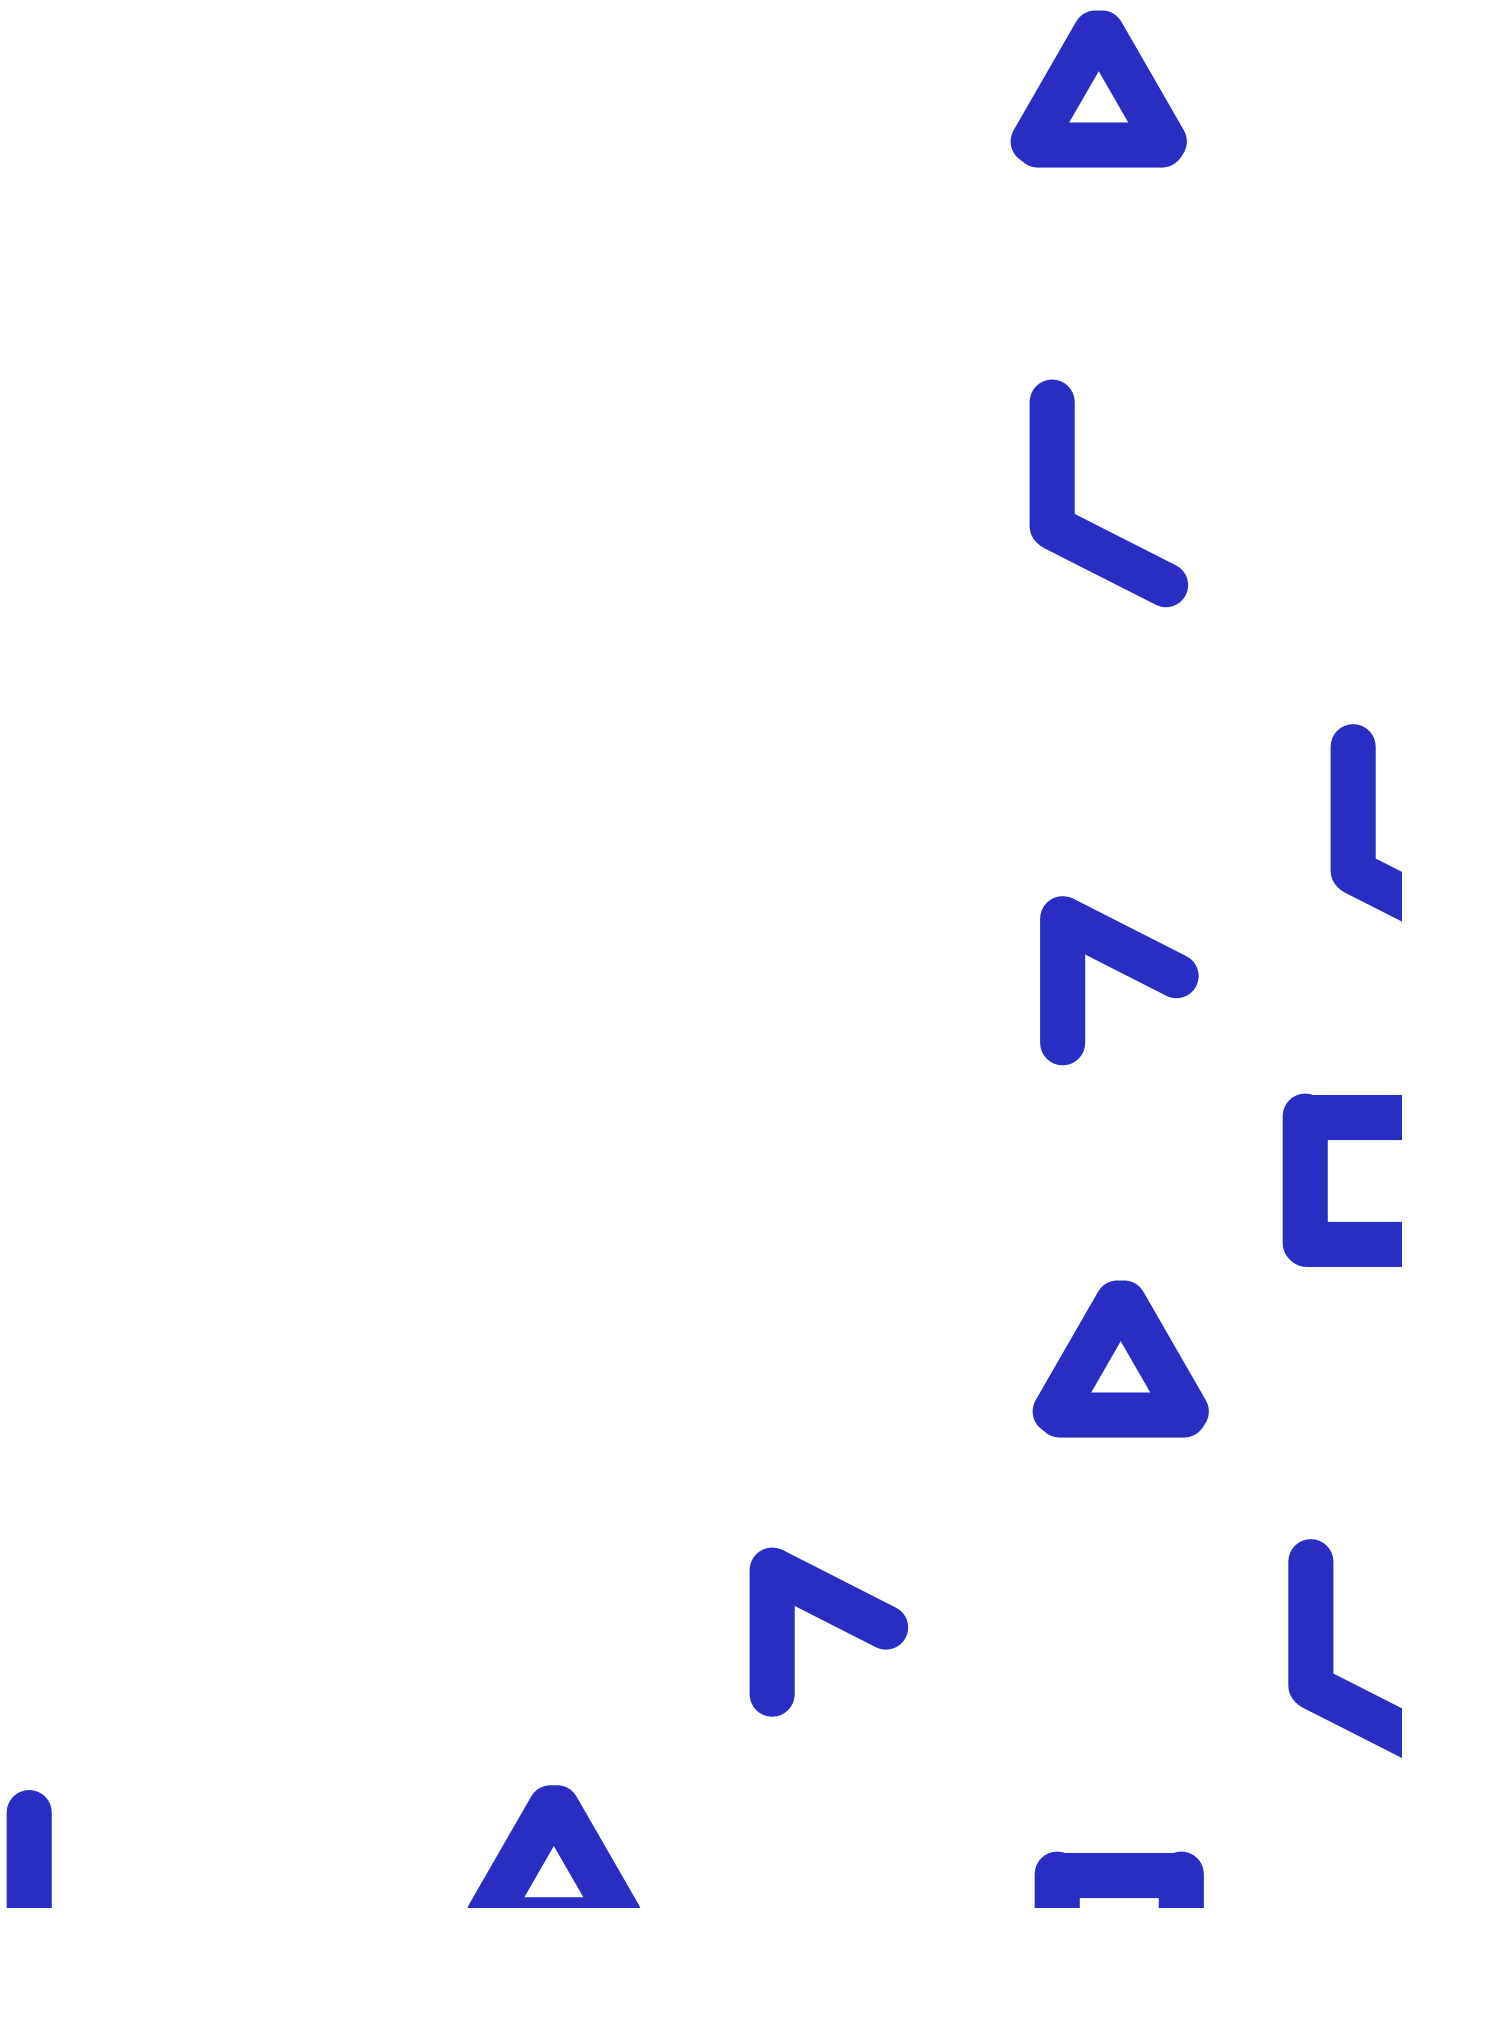
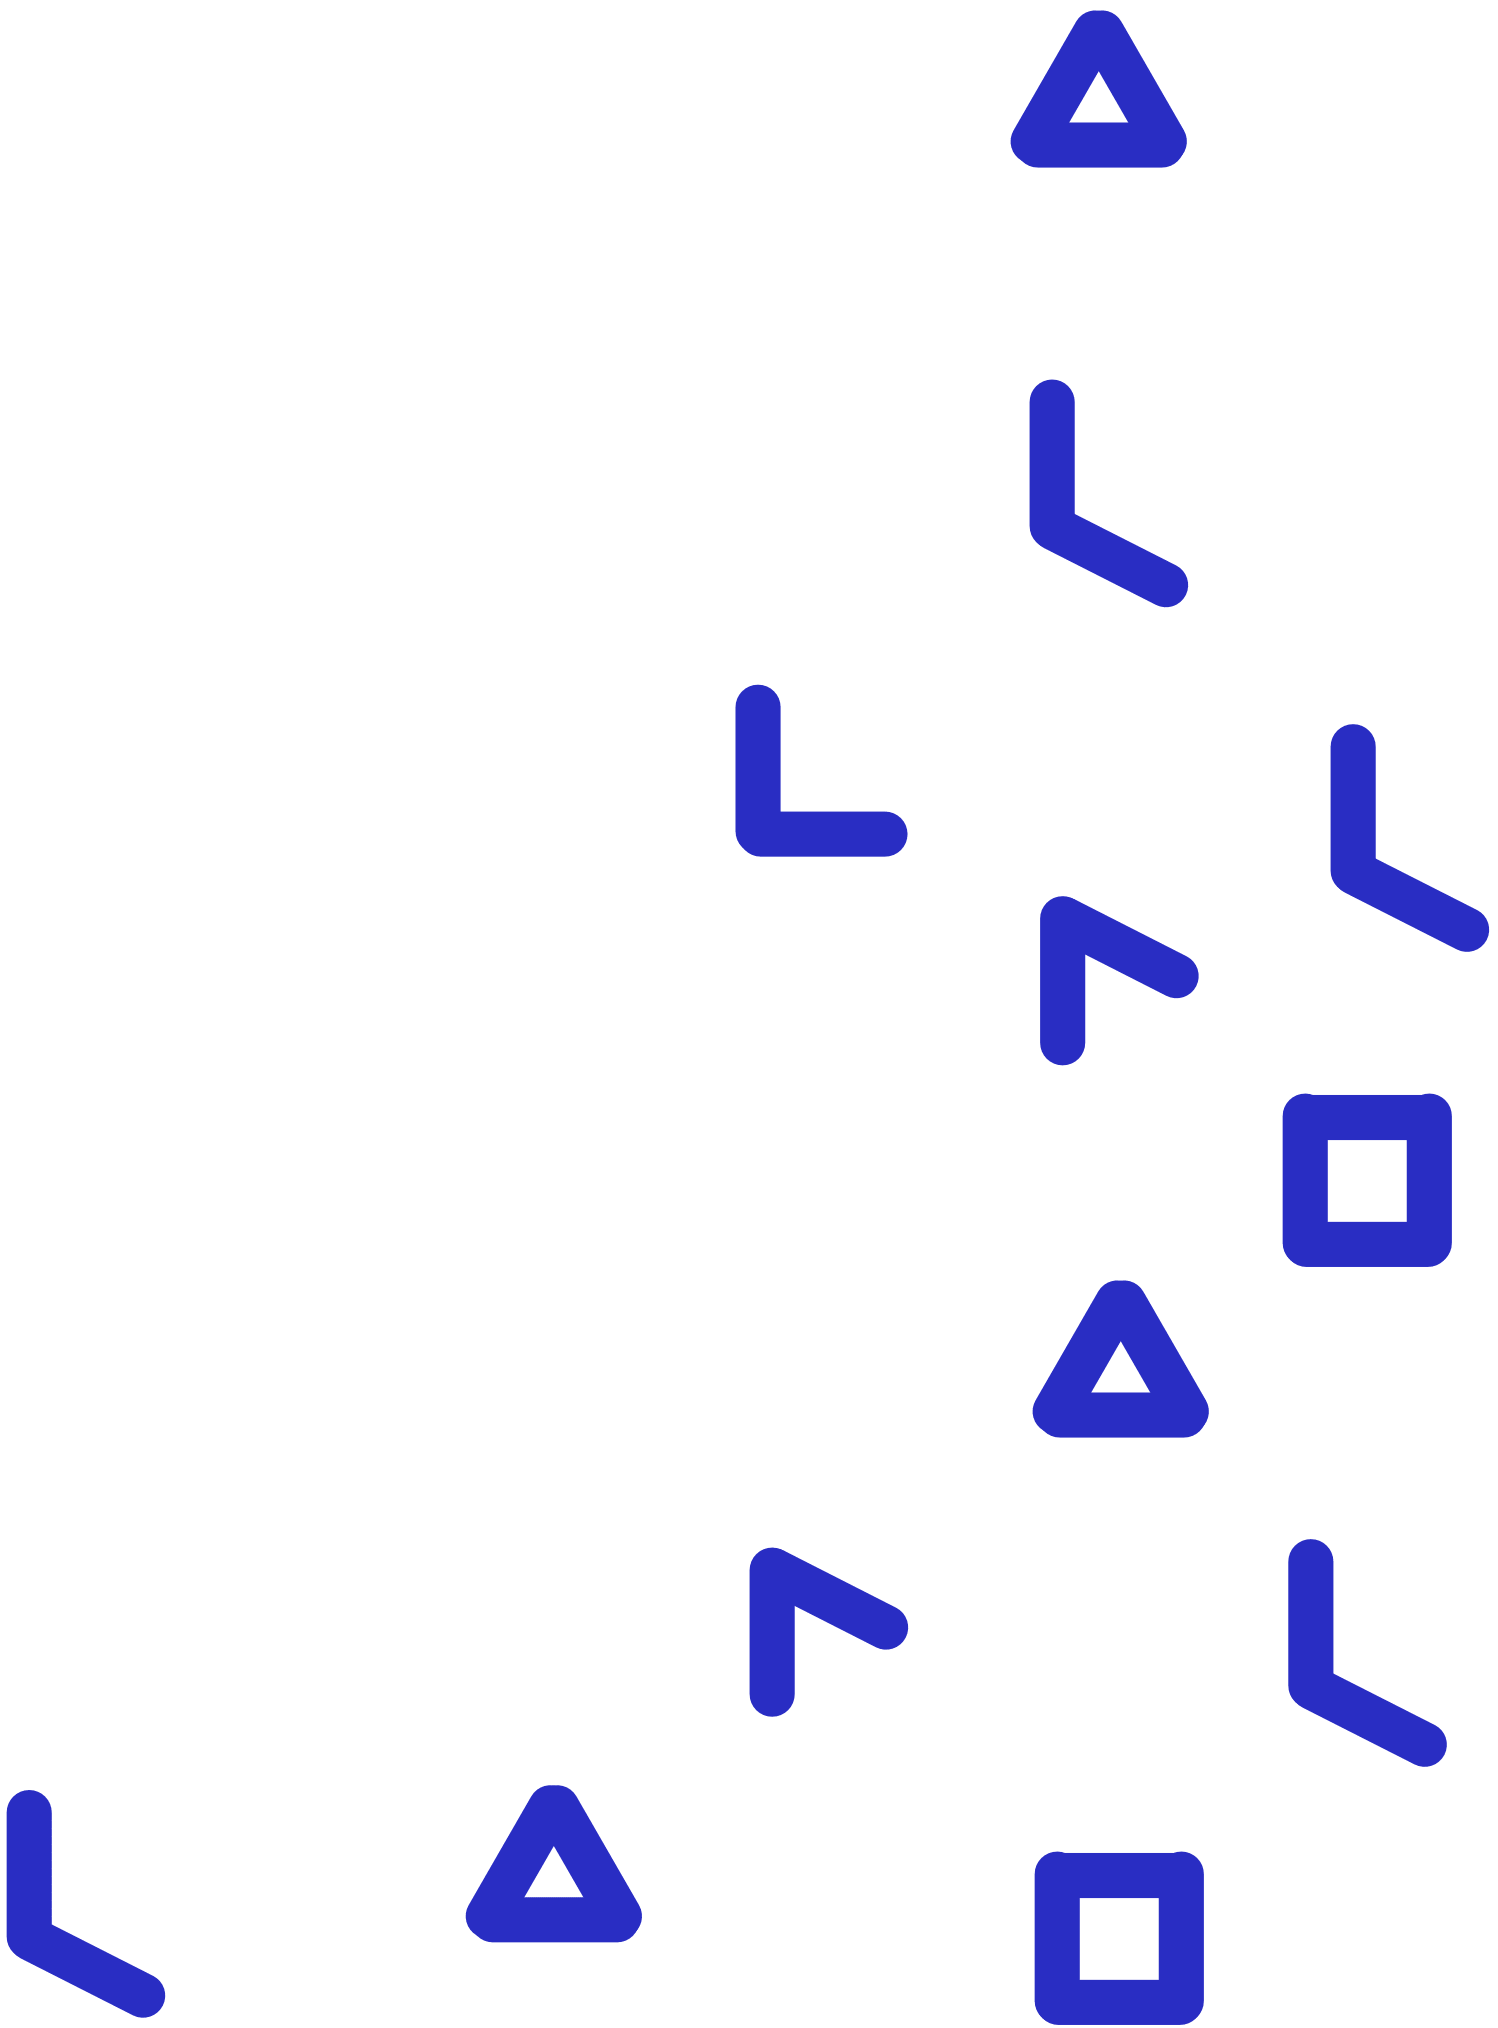
graphics and bug fixes

diff --git a/src/organisms/homepage-hero/HomepageHero.tsx b/src/organisms/homepage-hero/HomepageHero.tsx
@@ -1,5 +1,4 @@
-import { Box, Heading } from "grommet";
-import dynamic from "next/dynamic";
+import { Box, Heading, Image } from "grommet";
 import { Link, RichText, RichTextBlock } from "prismic-reactjs";
 import React from "react";
 import styled from "styled-components";
@@ -11,15 +10,8 @@ import {
   MobileTabletOnly,
 } from "../../atoms/responsive-helpers/ResponsiveHelpers";
 import Section from "../../layout/section/Section";
-import { patternPositions } from "../../motif/pattern-positions/patternPositions";
 import { colorPalette } from "../../theme/pila";
 import ResponsiveGrid from "../responsive-grid/ResponsiveGrid";
-
-// eslint-disable-next-line @typescript-eslint/ban-ts-comment
-// @ts-ignore
-const Pattern = dynamic(() =>
-  import("../../motif/Motif").then((mod) => mod.Pattern)
-);
 
 export interface HomepageHeroProps {
   title: RichTextBlock[];
@@ -46,15 +38,12 @@ const HeroContents: React.FC<HeroContentsProps> = ({
   image,
   isMobileDevice = false,
 }) => {
-  const motifWrapperRef = React.useRef<HTMLDivElement>(null);
-
   return (
     <StyledBox
       background={colorPalette.blue}
       justify={"center"}
       overflow={"hidden"}
       height={isMobileDevice ? "100vh" : "95vh"}
-      ref={motifWrapperRef}
       style={{ overflow: "hidden", position: "relative" }}
     >
       <StyledSection justify={isMobileDevice ? "start" : "center"}>
@@ -88,22 +77,14 @@ const HeroContents: React.FC<HeroContentsProps> = ({
             )}
           </Box>
           <ImageContainer width={{ max: "600px" }}>
-            <DesktopUp>
-              {patternPositions.map(({ position, variant, color }, index) => (
-                <StyledPattern
-                  key={index}
-                  color={color}
-                  positionString={position}
-                  variant={variant}
-                />
-              ))}
-            </DesktopUp>
+            <BluePattern src={"/pattern/blue-pattern.png"} />
             <ImageBox
               elevation={"xxxlarge"}
               background={`url(${image?.url})`}
               style={{ right: isMobileDevice ? "-24vw" : "0" }}
               margin={{ top: isMobileDevice ? "large" : "none" }}
             />
+            <GreenPattern src={"/pattern/green-pattern.png"} />
           </ImageContainer>
         </ResponsiveGrid>
       </StyledSection>
@@ -144,9 +125,30 @@ const ImageContainer = styled(Box)`
   position: relative;
 `;
 
-const StyledPattern = styled(Pattern)<{ positionString: string }>`
+const BluePattern = styled(Image)`
   position: absolute;
-  ${(props) => props.positionString}
+  height: 1014px;
+  width: 749px;
+  left: 0;
+
+  @media (min-width: 901px) {
+    bottom: -235px;
+    left: 62px;
+  }
+`;
+
+const GreenPattern = styled(Image)`
+  display: none;
+  position: absolute;
+  right: -222px;
+  bottom: -60px;
+  height: 501px;
+  width: 406px;
+  z-index: 1;
+
+  @media (min-width: 901px) {
+    display: block;
+  }
 `;
 
 export default HomepageHero;

diff --git a/slices/HighlightBanner/index.tsx b/slices/HighlightBanner/index.tsx
@@ -3,10 +3,10 @@ import {
   CardBody,
   CardHeader,
   Heading,
+  Image,
   Paragraph,
   ResponsiveContext,
 } from "grommet";
-import dynamic from "next/dynamic";
 import { Link, RichText, RichTextBlock } from "prismic-reactjs";
 import React, { FC } from "react";
 import styled from "styled-components";
@@ -16,8 +16,6 @@ import Section from "../../src/layout/section/Section";
 import ResponsiveGrid from "../../src/organisms/responsive-grid/ResponsiveGrid";
 import { colorPalette } from "../../src/theme/pila";
 import Slice from "../../types/Slice";
-
-const Motif = dynamic(() => import("../../src/motif/Motif"));
 
 type Primary = {
   title: RichTextBlock[];
@@ -42,7 +40,6 @@ const HighlightBanner: FC<{ slice: HighlightBannerProps }> = ({ slice }) => {
     },
   } = slice;
   const size = React.useContext(ResponsiveContext);
-  const motifWrapperRef = React.useRef<HTMLDivElement>(null);
 
   return (
     <Section justify={"center"} flex>
@@ -55,9 +52,8 @@ const HighlightBanner: FC<{ slice: HighlightBannerProps }> = ({ slice }) => {
           justify={"center"}
           margin={{ top: "xlarge", bottom: "xlarge" }}
           style={{ position: "relative" }}
-          ref={motifWrapperRef}
         >
-          <Motif containerRef={motifWrapperRef} color={"#58C6AA"} />
+          <HighlightPattern src={"/pattern/highlight-pattern.png"} />
           <CardHeader
             direction={"column"}
             style={{ position: "relative", zIndex: 1 }}
@@ -124,6 +120,17 @@ const HighlightBanner: FC<{ slice: HighlightBannerProps }> = ({ slice }) => {
 const StyledCard = styled(Card)`
   border-radius: 25px;
   min-height: 380px;
+`;
+
+const HighlightPattern = styled(Image)`
+  width: auto;
+  height: 100%;
+  position: absolute;
+
+  @media (min-width: 1250px) {
+    height: auto;
+    width: 100%;
+  }
 `;
 
 export default HighlightBanner;

diff --git a/slices/ImageWithTextSection/index.tsx b/slices/ImageWithTextSection/index.tsx
@@ -1,4 +1,4 @@
-import { Box } from "grommet";
+import { Box, Image } from "grommet";
 import React, { FC } from "react";
 import styled from "styled-components";
 
@@ -78,6 +78,7 @@ const ImageWithTextSection: FC<{ slice: ImageWithTextSectionProps }> = ({
       background={colorMapper(backgroundColor)}
       justify={"center"}
       pad={{ vertical: "xlarge" }}
+      style={{ position: "relative", overflow: "hidden" }}
     >
       <Section>
         <ResponsiveGrid
@@ -85,7 +86,16 @@ const ImageWithTextSection: FC<{ slice: ImageWithTextSectionProps }> = ({
           areas={gridAreas(imageSide)}
           rows={rows}
         >
-          <Box gridArea="image" style={{ display: "grid" }}>
+          <Box
+            gridArea="image"
+            style={{ display: "grid", position: "relative" }}
+          >
+            {backgroundColor === "dark_blue" && (
+              <DarkBluePattern
+                src={"/pattern/dark-blue-pattern.png"}
+                imageSide={imageSide}
+              />
+            )}
             <RichMediaElement
               {...image}
               alt={image?.alt || ""}
@@ -100,6 +110,19 @@ const ImageWithTextSection: FC<{ slice: ImageWithTextSectionProps }> = ({
     </StyledBox>
   );
 };
+
+const DarkBluePattern = styled(Image)<{ imageSide: ImagePosition }>`
+  position: absolute;
+  width: 662px;
+  height: 1014px;
+  ${(props) =>
+    props.imageSide === ImagePosition.imageRight ? `right:-35%` : `left: -35%`};
+  ${(props) =>
+    props.imageSide === ImagePosition.imageRight &&
+    `-webkit-transform: scaleX(-1);
+  transform: scaleX(-1)`};
+  bottom: -50%;
+`;
 
 const StyledBox = styled(Box)`
   min-height: 800px;

diff --git a/slices/ThanksToInstitutionsSection/index.tsx b/slices/ThanksToInstitutionsSection/index.tsx
@@ -1,4 +1,4 @@
-import { Box, Card, Grid, Heading } from "grommet";
+import { Box, Grid, Heading } from "grommet";
 import { RichText, RichTextBlock } from "prismic-reactjs";
 import React, { FC } from "react";
 import styled from "styled-components";
@@ -52,14 +52,7 @@ const ThanksToInstitutionsSection: FC<{
       {/*TODO - create specific logic for centered wrapping*/}
       <ResponsiveGrid columns={columns} rows={rows}>
         {(slice.items || []).map(({ logo }, index) => (
-          <StyledCard
-            key={index}
-            pad={"medium"}
-            background={"light-1"}
-            round={"medium"}
-            justify={"center"}
-            elevation={"none"}
-          >
+          <StyledCard key={index} pad={"medium"} justify={"center"}>
             <Box
               style={{ position: "relative" }}
               width={"100%"}
@@ -74,7 +67,9 @@ const ThanksToInstitutionsSection: FC<{
   </Box>
 );
 
-const StyledCard = styled(Card)`
+const StyledCard = styled(Grid)`
+  background-color: #f8f8f8;
+  border-radius: 15px;
   min-height: 225px;
 `;
 

diff --git a/src/molecules/rich-media-element/RichMediaElement.tsx b/src/molecules/rich-media-element/RichMediaElement.tsx
@@ -1,7 +1,7 @@
 import { ResponsiveContext } from "grommet";
 import Image, { ImageProps } from "next/image";
 import { Link } from "prismic-reactjs";
-import React, { ReactText, useContext } from "react";
+import React, { useContext } from "react";
 import ReactPlayer from "react-player/lazy";
 import styled from "styled-components";
 
@@ -79,8 +79,8 @@ const RichMediaElement: React.FC<RichMediaElementProps> = ({
       src={url || ""}
       alt={alt || ""}
       objectFit="cover"
-      width={props.width as ReactText}
-      height={props.height as ReactText}
+      width={props.width}
+      height={props.height}
       className={className}
       unoptimized
     />

diff --git a/src/motif/Motif.tsx b/src/motif/Motif.tsx
@@ -28,7 +28,7 @@ export const Pattern: React.FC<{
   color: string;
   className?: string;
   variant?: PatternVariant;
-}> = ({ className, color, variant }) => {
+}> = ({ className, color }) => {
   const sequenceLength = animationSequences.sequence1[0].length;
   const [parentIndex, setParentIndex] = React.useState(getRandomInt(0));
   const [isAnimating, setIsAnimating] = React.useState(false);
